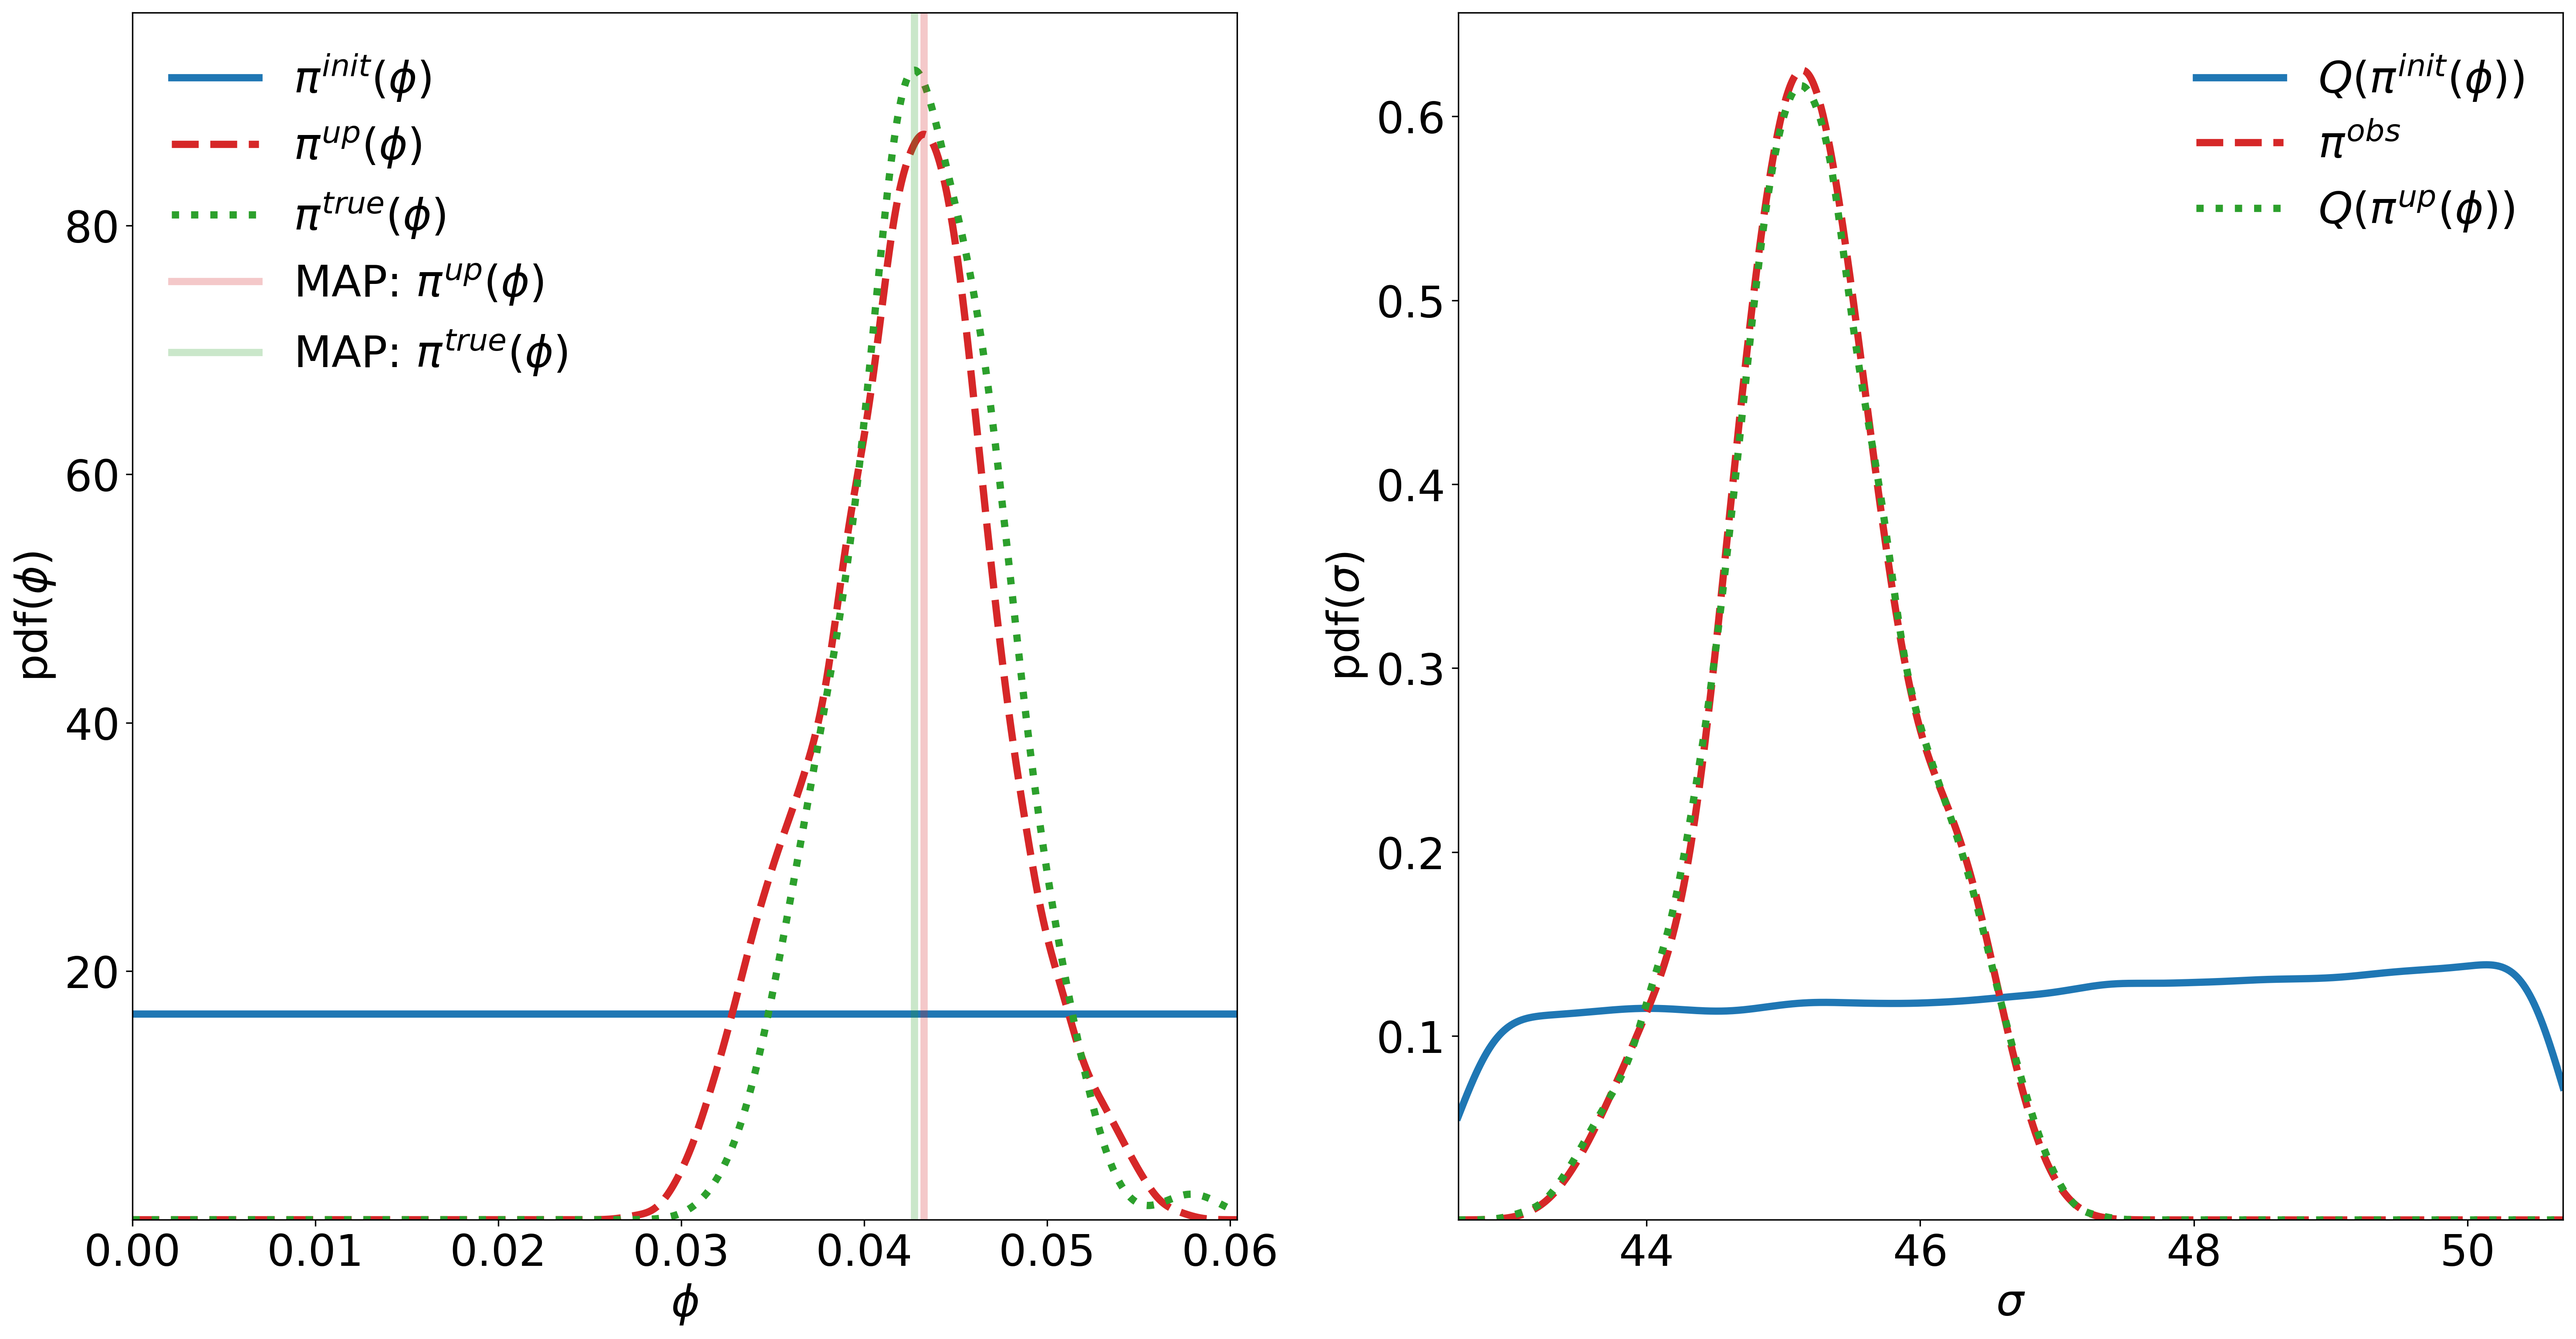
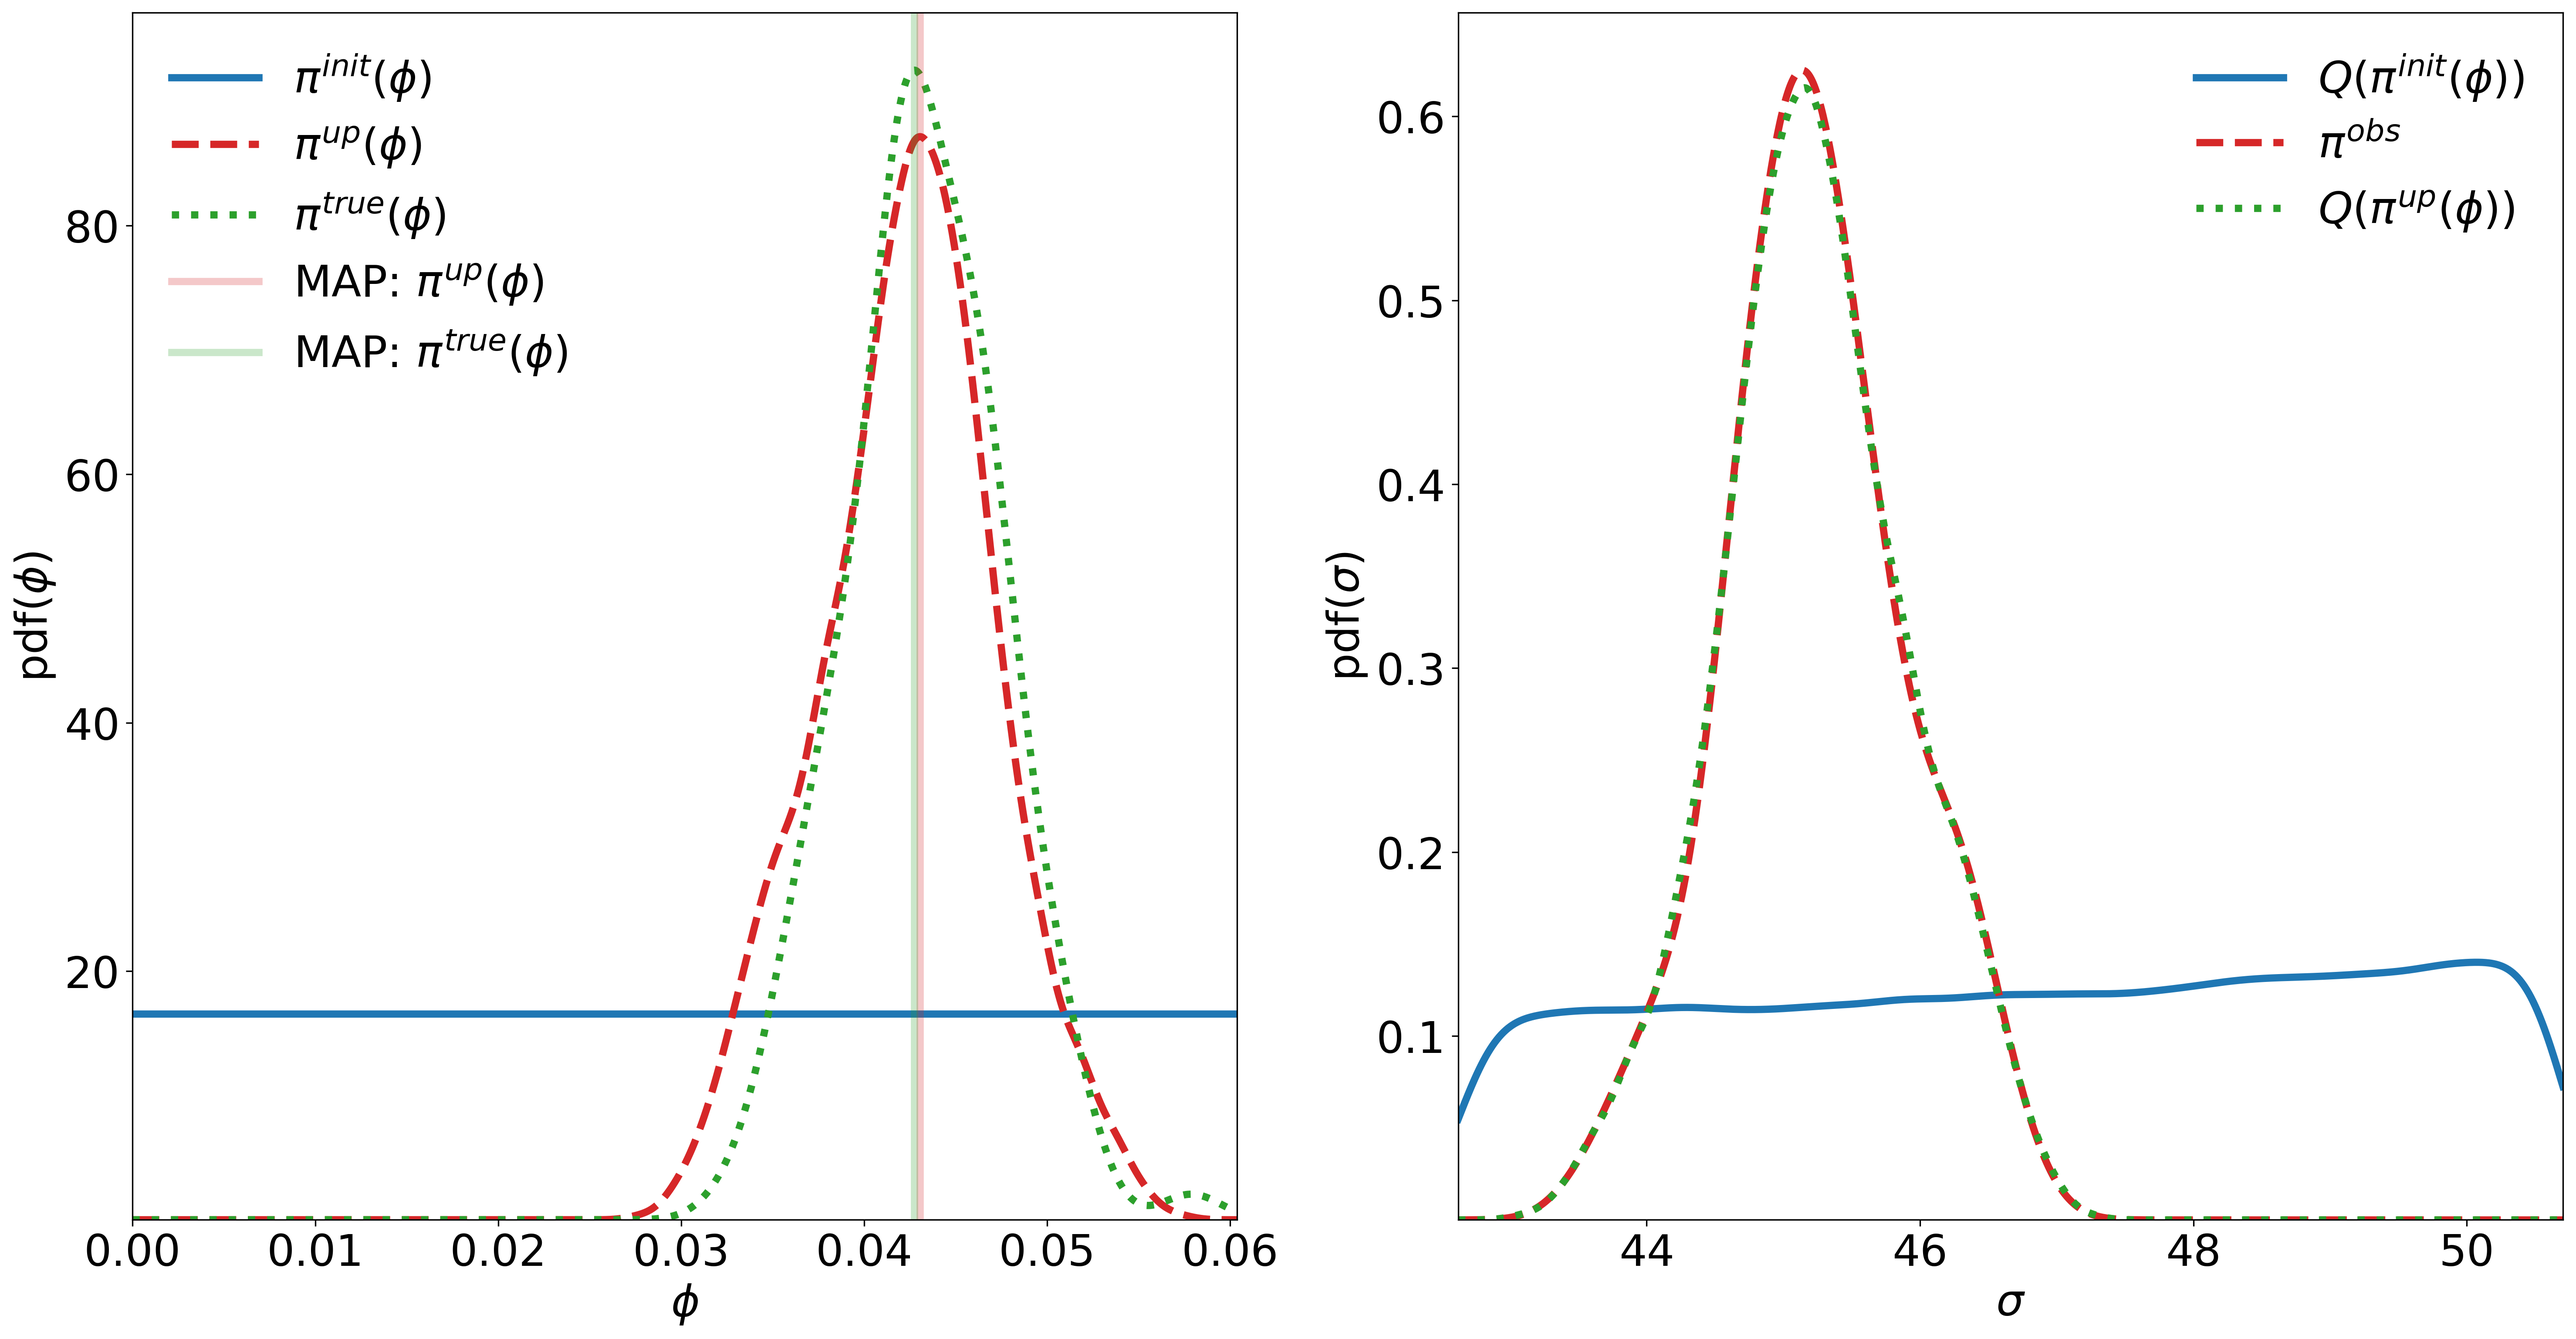
re-run for 0.02 strain

diff --git a/test_CBayes_tensileDogbone/analysis/solveCBayes.py b/test_CBayes_tensileDogbone/analysis/solveCBayes.py
@@ -76,7 +76,7 @@ def getInterpStressStrain(StressStrainFile):
     return interp_x, interp_y
 
 # Set indices
-idxStressStrain = 4
+idxStressStrain = 2
 poroType = 'local'
 poroIdx = 1
 
